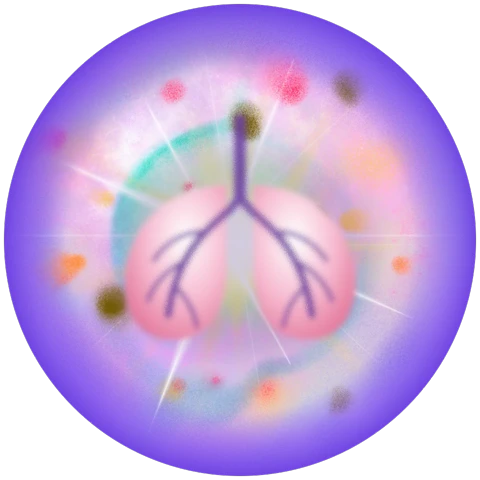
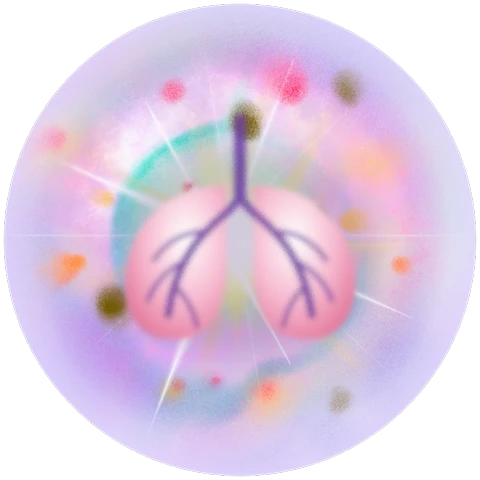
Explore: Breathe orb softened, pale pearl-lavender rim and a gentle lilac glow instead of bold violet

diff --git a/sw.js b/sw.js
@@ -1,5 +1,5 @@
 // Offline cache for the app shell. Bump VERSION when shipping changes.
-const VERSION = 'uts-v1366';
+const VERSION = 'uts-v1368';
 const SHELL = ['./', './index.html', './js/lotus.js', './styles.css', './manifest.json', './icons/icon-192.png', './icons/icon-512.png', './icons/apple-touch-icon.png', './icons/icon-64.png', './icons/icon-32.png', './icons/icon-maskable-512.png', './fonts/ballet-latin.woff2', './fonts/ballet-latin-ext.woff2',
   './js/app.js', './js/data.js', './js/cycle.js', './js/legal.js', './js/i18n.js', './js/icons.js', './js/cosmic.js', './js/astro.js', './js/moonguide.js', './js/moon3d.js', './js/figure.js', './js/figure3d.js', './js/torso.js', './js/torso3d.js', './js/photos.js', './js/seasonal.js', './js/world.js', './js/ground.js', './js/athlete.js', './js/bodymap.js', './js/molecules.js', './js/welcome3d.js', './js/teacup3d.js', './js/sfx.js', './js/ticketmotion.js', './js/sun.js', './js/account.js', './js/config.js', './images/planet.jpg', './images/gate-rose.webp', './images/lotus-menstrual.webp', './images/lotus-follicular.webp', './images/lotus-ovulatory.webp', './images/lotus-luteal.webp', './images/breath-bud.webp', './images/breath-bloom.webp', './images/period.png', './images/partner-cinema.webp', './images/partner-hands.jpg', './images/ground-roots.jpg', './images/ground/golden-roots.webp', './images/pixel-aura-0.png', './images/pixel-aura-1.png', './images/pixel-aura-2.png', './images/pixel-aura-3.png', './images/sun-moon.webp', './images/sun-moon.mp4', './images/tea-ginger.webp', './images/sun-moon-poster.webp', './images/rhythm-sun.webp', './images/move-stardust.mp4', './images/move-stardust.webp', './images/move-meditate.webp', './images/move-walk.webp', './images/move-yoga.webp', './images/move-sport.webp', './images/move-pilates.webp', './images/move-hiit.webp', './images/move-lift.webp', './images/season-veg.webp', './images/season-fruit.webp', './images/stress-meditate.mp4', './images/stress-meditate.webp', './images/stress-breathe.mp4', './images/stress-breathe.webp', './images/forest-path.jpg', './images/welcome-forest.jpg', './images/welcome-leaves.webp', './images/welcome-forest-bare.jpg', './images/intro-forest.jpg', './images/forest-calm.jpg', './images/tile-meditate.webp', './images/tile-ground.webp', './images/tile-walk.webp', './images/tile-yoga.webp', './images/tile-sport.webp', './images/tile-pilates.webp', './images/tile-hiit.webp', './images/tile-lift.webp', './images/purpose-body.jpg', './images/purpose-conceive.jpg', './images/purpose-after.jpg', './images/purpose-after-feet.jpg', './images/period-food.webp', './images/plate.webp', './images/read-lilies.webp', './images/read-seasons.webp', './models/body2.glb', './models/teacup.glb', './models/matcha.glb', './models/greentea.glb', './images/cup-matcha.webp', './models/soup.glb', './images/dish-soup.webp', './models/pho.glb', './images/dish-pho.webp', './models/miso.glb', './images/dish-miso.webp', './models/stew.glb', './images/dish-stew.webp', './models/veg-plate.glb', './models/salad-a.glb', './images/dish-salad-a.webp', './models/salad-b.glb', './images/dish-salad-b.webp', './images/dish-veg.webp', './models/taco.glb', './images/dish-taco.webp', './models/gyro.glb', './images/dish-gyro.webp', './models/marrow.glb', './images/dish-marrow.webp', './models/curry.glb', './images/dish-curry.webp', './models/steak.glb', './images/dish-steak.webp', './models/sweet-potato.glb', './images/dish-sweet-potato.webp', './models/mint-tea.glb', './images/cup-mint.webp', './models/chamomile.glb', './images/cup-chamomile.webp', './models/hibiscus.glb', './models/latte.glb', './models/coffee.glb', './models/broth.glb', './models/cortisol.glb', './images/cortisol-mol.webp', './models/moon.glb', './images/cup-chai.webp', './images/cup-hibiscus.webp', './images/cup-glass.webp', './sounds/forest-stream.m4a', './images/herbs/astragalus.svg', './images/herbs/red-dates.svg', './images/herbs/ginger.svg', './images/herbs/clove.svg', './images/herbs/cinnamon.svg', './images/herbs/goji.svg', './images/herbs/reishi.svg', './images/herbs/chaga.svg', './images/herbs/he-shou-wu.svg', './images/drinks/broth.svg', './images/drinks/cacao.svg', './images/drinks/chamomile-tea.svg', './images/drinks/coconut-water.svg', './images/drinks/coffee.svg', './images/drinks/ginger-tea.svg', './images/drinks/green-juice.svg', './images/drinks/hibiscus-tea.svg', './images/drinks/iced-matcha.svg', './images/drinks/lemon-water.svg', './images/drinks/matcha-latte.svg', './images/drinks/matcha.svg', './images/drinks/mineral-water.svg', './images/drinks/nettle-tea.svg', './images/drinks/raspberry-leaf-tea.svg', './images/drinks/red-date-tea.svg', './images/emoji/iron-ore.svg', './images/emoji/log-cramps.svg', './images/emoji/log-pelvic-pain.svg', './images/emoji/log-joint-pain.svg', './images/emoji/log-constipation.svg', './images/emoji/log-acne.svg', './images/emoji/log-brain-fog.svg', './images/emoji/log-unusual-colour.svg', './images/emoji/amla.svg', './images/emoji/apricot.svg', './images/emoji/artichoke.svg', './images/emoji/asian-pear.svg', './images/emoji/bamboo-shoot.svg', './images/emoji/bean-sprouts.svg', './images/emoji/bitter-gourd.svg', './images/emoji/black-trumpet.svg', './images/emoji/blackberry.svg', './images/emoji/bottle-gourd.svg', './images/emoji/brussels-sprouts.svg', './images/emoji/burdock.svg', './images/emoji/button-mushroom.svg', './images/emoji/cardoon.svg', './images/emoji/cassava.svg', './images/emoji/cauliflower.svg', './images/emoji/celeriac.svg', './images/emoji/chanterelle.svg', './images/emoji/chard.svg', './images/emoji/chayote.svg', './images/emoji/cloudberry.svg', './images/emoji/cranberry.svg', './images/emoji/currants.svg', './images/emoji/custard-apple.svg', './images/emoji/daikon.svg', './images/emoji/dandelion.svg', './images/emoji/dragon-fruit.svg', './images/emoji/drumsticks.svg', './images/emoji/elderberry.svg', './images/emoji/enoki.svg', './images/emoji/feijoa.svg', './images/emoji/fiddlehead.svg', './images/emoji/green-plum.svg', './images/emoji/guava.svg', './images/emoji/horseradish.svg', './images/emoji/jackfruit.svg', './images/emoji/jamun.svg', './images/emoji/jerusalem-artichoke.svg', './images/emoji/kale.svg', './images/emoji/king-oyster.svg', './images/emoji/kohlrabi.svg', './images/emoji/korean-melon.svg', './images/emoji/leek.svg', './images/emoji/lingonberry.svg', './images/emoji/lions-mane.svg', './images/emoji/long-beans.svg', './images/emoji/loquat.svg', './images/emoji/lotus-root.svg', './images/emoji/lychee.svg', './images/emoji/mangosteen.svg', './images/emoji/morel.svg', './images/emoji/okra.svg', './images/emoji/oyster-mushroom.svg', './images/emoji/papaya.svg', './images/emoji/parsnip.svg', './images/emoji/passion-fruit.svg', './images/emoji/persimmon.svg', './images/emoji/plum.svg', './images/emoji/porcini.svg', './images/emoji/prickly-pear.svg', './images/emoji/rambutan.svg', './images/emoji/raspberry.svg', './images/emoji/ridge-gourd.svg', './images/emoji/rosehip.svg', './images/emoji/salsify.svg', './images/emoji/samphire.svg', './images/emoji/sea-buckthorn.svg', './images/emoji/shiitake.svg', './images/emoji/spring-onion.svg', './images/emoji/starfruit.svg', './images/emoji/tamarind.svg', './images/emoji/taro.svg', './images/emoji/turnip.svg', './images/emoji/watercress.svg', './images/emoji/yuzu.svg', './images/emoji/almonds.webp', './images/emoji/asparagus.webp', './images/emoji/beetroot.webp', './images/emoji/black-sesame.webp', './images/emoji/cardamom.webp', './images/emoji/chia.webp', './images/emoji/cinnamon.webp', './images/emoji/fennel-seeds.webp', './images/emoji/fennel.webp', './images/emoji/fig.webp', './images/emoji/flaxseed.webp', './images/emoji/goji.webp', './images/emoji/hemp.webp', './images/emoji/liver.webp', './images/emoji/pomegranate.webp', './images/emoji/pumpkin-seeds.webp', './images/emoji/quince.webp', './images/emoji/radish.webp', './images/emoji/red-dates.webp', './images/emoji/rhubarb.webp', './images/emoji/sesame.webp', './images/emoji/sunflower-seeds.webp', './images/emoji/tahini.webp', './images/emoji/turmeric.webp', './images/emoji/walnuts.webp', './images/emoji/black-seed-oil.svg', './images/emoji/cacao.svg', './images/emoji/water.svg', './images/emoji/black-pepper.svg', './images/emoji/cumin.svg', './images/emoji/curry.svg', './images/emoji/dates.svg', './images/emoji/maple-syrup.svg', './images/emoji/mayonnaise.svg', './images/emoji/mustard.svg', './images/emoji/nutmeg.svg', './images/emoji/nutritional-yeast.svg', './images/emoji/paprika.svg', './images/emoji/tamari.svg', './images/emoji/toothpick.svg', './images/emoji/vanilla.svg', './images/bg/mist.webp', './images/bg/arch.webp', './images/bg/arch-band.webp', './images/bg/frame-band.webp', './images/bg/frame-top.webp', './images/bg/frame-bottom.webp', './images/bg/frame-side.webp', './images/bg/leaves.webp', './images/bg/lotus.webp', './images/bg/lotus-petals.webp', './images/bg/lotus-lines.webp', './images/bg/swirls.webp', './images/tea-glow-bg.webp', './images/herbs/astragalus-real.webp', './images/herbs/clove-real.webp', './images/herbs/chaga-real.webp', './images/herbs/reishi-real.webp', './images/herbs/he-shou-wu-photo.webp', './images/sf/astragalus.webp', './images/sf/elderberries.webp', './images/sf/walnuts.webp', './images/sf/iron.webp', './images/drinks/cup-covered.svg', './images/pets/bunny.svg', './images/pets/kitty.svg', './images/pets/bear.svg', './images/pets/panda.svg', './images/pets/fox.svg', './images/pets/frog.svg', './images/pets/chick.svg', './images/pets/hamster.svg'];
 

diff --git a/js/app.js b/js/app.js
@@ -2075,9 +2075,9 @@ function exploreGrid(info) {
     ['relief', 'heart', 'Balance hormones', 'Step by step, fundamentals first', 'images/xb/relief.webp'],
     ['tea', 'cup', 'Tea guide', 'For every need', 'images/xb/tea.webp'], ['breathe', 'leaf', 'Breathe', 'Meditate & breathe', 'images/xb/breathe.webp']];
   // her painted orbs, whole and frameless, in an aligned two-column grid (the fifth centred); the name sits under each in a white pill with a colour dot
-  const dot = ['#f2552c', '#e01e5f', '#f0185a', '#ea7a14', '#6a3ee0'];
+  const dot = ['#f2552c', '#e01e5f', '#f0185a', '#ea7a14', '#b393f7'];
   // each orb's painted rim colour, which also glows softly around it
-  const glow = ['#ff8a3d', '#f2477a', '#f0185a', '#f6a12e', '#8a5cf0'];
+  const glow = ['#ff8a3d', '#f2477a', '#f0185a', '#f6a12e', '#c9b0ff'];
   const bub = ([to, ic, t, sub, img, vid], i) => `<button class="xb" data-action="${to === 'super' ? 'superGo' : 'nav'}" data-to="${to}" style="--i:${i};--dot:${dot[i]};--glow:${glow[i]}" aria-label="${t}: ${sub}"><span class="xb-o">${vid ? `<video class="dpt-vid" src="${vid}" poster="${img}" muted loop playsinline preload="none" aria-hidden="true"></video>` : `<img src="${img}" alt="" loading="lazy">`}</span><span class="xb-t">${t}</span></button>`;
   return `<div class="xp3">${tiles.map(bub).join('')}</div>`;
 }
